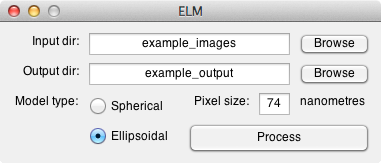
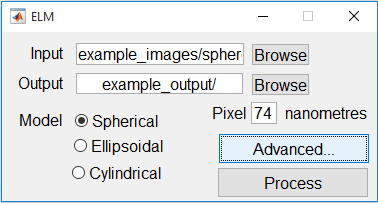
pictures for gui

diff --git a/README.md b/README.md
@@ -99,5 +99,7 @@ To read the data in Matlab, drop the ```.MAT``` files onto the Matlab console, t
 __Notes__
 
 The ```Advanced``` button opens a panel in which some image analysis settings can be adjusted. This may be necessary for images with somewhat different scale or brightness to the sample data.  
+![](doc/ELM_gui_advanced.png)
+
 * The image segmentation step may miss a few spore images. The sensitivity parameter can be adjusted (increased) to capture more candidates, but this might introduce false positive candidates.
 * The image segmentation step uses ```imfindcircles``` which often returns a warning (that the function is looking for small circles). With the sample data, this warning is over-cautious and can be ignored.
